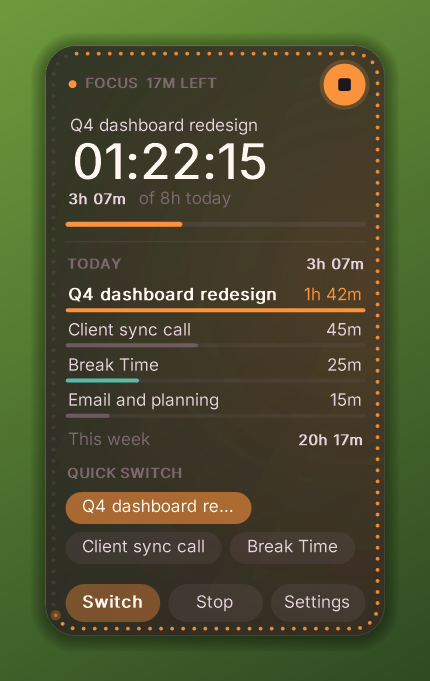
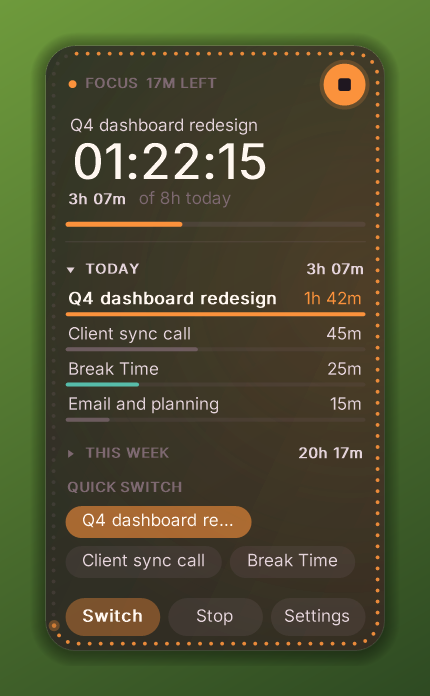
Everhour Widget v8: task groups, double-click restart, update pill, edge strip everywhere
- Today and This week are collapsible groups (one open at a time) showing
  5 tasks with wheel scrolling and a scrollbar; double-click a task to start
  it again; This week lists tasks with weekly totals
- Edge lights alternate fill/clear laps, so there is no jump at :00
- Settings and dialogs use the widget's background transparency
- Update pill on the widget installs with one click; with automatic updates
  on, new versions install by themselves
- Auto-hide edge strip shows on every monitor, stays on top of all windows,
  and is always excluded from screen sharing; hovering a strip opens the
  widget on that screen

diff --git a/README.md b/README.md
@@ -32,6 +32,10 @@ A task counts as a break when its name contains words you choose (e.g. "break", 
 
 Whatever the shape, the widget never goes off screen: opening it near an edge makes it grow the other way.
 
+## Today and This week
+
+The list on the widget has two groups, **Today** and **This week** — click a heading to open or close it (only one is open at a time, so the widget never grows too tall). Each shows five tasks; scroll with the mouse wheel for the rest. **Double-click any task to start its timer again.**
+
 ## Focus sessions and favourites
 
 <img src="docs/large-focus.png" alt="Focus session with quick-switch chips" width="300" align="right">
@@ -88,7 +92,8 @@ Run **`Build Share Folder.bat`**. It creates `Share\Everhour Widget` and `Share\
 
 ### Updating
 
-- **Version 7 and later update themselves.** A few hours after a new version is pushed to this repository, the widget shows *"Widget update available"*. Click it (or right-click → *Install update*, or Settings → *Updates*) and it downloads, installs and restarts — settings and token are kept.
+- **Version 8 and later:** with *Install updates automatically* on (the default), a new version installs itself shortly after start-up or within a few hours — no clicks. With it off, an **Update to v…** pill appears on the widget; click it to install. Settings and token are always kept.
+- **Version 7:** shows a *"Widget update"* notification — click it, or right-click → *Install update*.
 - **Coming from version 6 or older** (no updater yet): download the new ZIP (Code → Download ZIP), unzip it, and double-click **`Install Everhour Widget.vbs`** once. It replaces the old copy and keeps your settings. From then on updates are automatic.
 - **For the maintainer:** bump `$Script:Version` in `EverhourWidget.ps1` *and* `version` in `version.json`, then push to `main`. Installed widgets compare against `version.json`.
 
